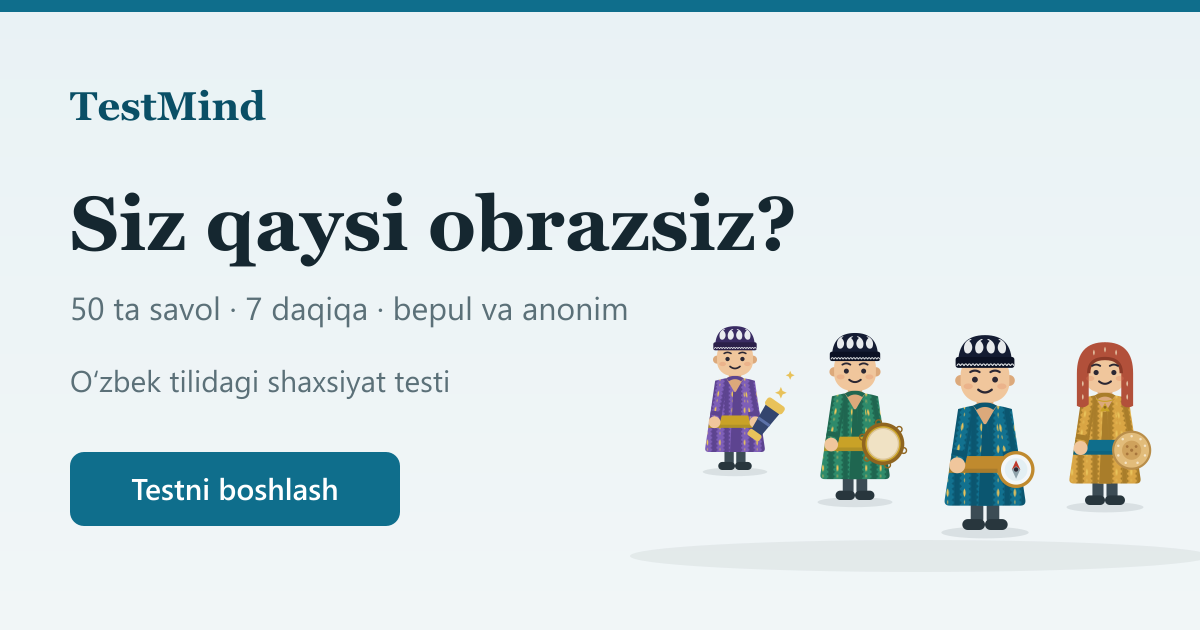
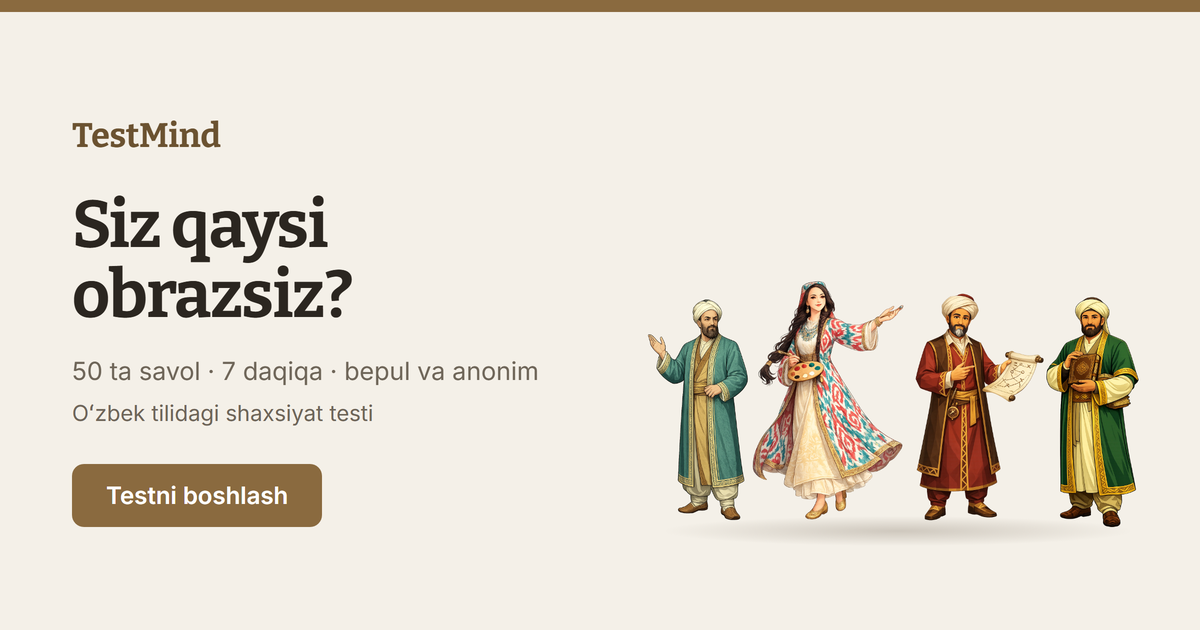
Regenerate the link-preview card, and give it a source
The founder sent the site to someone on Telegram and the preview came
back showing character art that had been replaced ten times over, on the
site's old teal palette, months after the site itself went bronze.

og.png was hand-drawn with no generator. Nothing on the site links to it
and no test looks at it, so when the characters changed and then the
palette changed, it just sat there being wrong -- and a preview card is
the first thing anyone sees of the site and the last thing anyone thinks
to check. It is now built from the same strings, fonts and artwork as
every other page: build_og.py emits a self-contained card, make_og.js
shoots it at 2x and downscales to the 1200x630 every crawler expects.

Shot at 2x because the card is mostly type -- rendering straight at 1200
chews the serifs, and this is seen at thumbnail size where soft type
reads as a broken image. The downscale runs inside make_og.js rather than
being left as a manual second step, which is the same class of mistake
that let the file rot in the first place.

Four figures, chosen for colour spread rather than importance, with the
negative margins their transparent canvases need and a shadow under them
-- the same reason the hero needed one, since none of the ten photographs
carries a shadow of its own.

Note for whoever ships the next redesign: Telegram caches previews hard.
The new card is live but existing chats keep the old one until Telegram
re-fetches; @WebpageBot forces it.

diff --git a/tools/make_og.js b/tools/make_og.js
@@ -1,0 +1,66 @@
+// Renders build/og.html to ../og.png at exactly 1200x630, the size every chat
+// app and crawler expects.
+//
+//   python build_og.py && node make_og.js
+//
+// Shot at 2x and downscaled, because the card is mostly type: rendering straight
+// at 1200 wide leaves the headline's serifs visibly chewed, and a preview card is
+// seen at thumbnail size where soft type reads as a broken image.
+const { spawn } = require('child_process');
+const fs = require('fs'), os = require('os'), path = require('path');
+const CHROME = 'C:/Program Files/Google/Chrome/Application/chrome.exe';
+const PORT = 9441, W = 1200, H = 630;
+const SRC = 'file:///' + path.resolve(__dirname, 'build', 'og.html').replace(/\\/g, '/');
+const DEST = path.resolve(__dirname, '..', 'og.png');
+const sleep = ms => new Promise(r => setTimeout(r, ms));
+let ws, id = 1; const W8 = new Map(), E = new Map();
+const send = (m, p = {}, sid) => new Promise((res, rej) => {
+  const i = id++; W8.set(i, { res, rej });
+  ws.send(JSON.stringify(sid ? { id: i, method: m, params: p, sessionId: sid } : { id: i, method: m, params: p }));
+});
+(async () => {
+  const prof = fs.mkdtempSync(path.join(os.tmpdir(), 'og-'));
+  const ch = spawn(CHROME, ['--headless=new', '--remote-debugging-port=' + PORT, '--no-sandbox',
+    '--disable-gpu', '--hide-scrollbars', '--allow-file-access-from-files',
+    '--user-data-dir=' + prof, 'about:blank'], { stdio: 'ignore' });
+  let info = null;
+  for (let i = 0; i < 60 && !info; i++) {
+    try { const r = await fetch('http://127.0.0.1:' + PORT + '/json/version'); if (r.ok) info = await r.json(); }
+    catch { await sleep(250); }
+  }
+  ws = new WebSocket(info.webSocketDebuggerUrl);
+  await new Promise(r => ws.addEventListener('open', r, { once: true }));
+  ws.addEventListener('message', e => { const m = JSON.parse(e.data);
+    if (m.id && W8.has(m.id)) { const w = W8.get(m.id); W8.delete(m.id); m.error ? w.rej(new Error(m.error.message)) : w.res(m.result); }
+    else if (m.method && E.has(m.method)) { const r = E.get(m.method); E.delete(m.method); r(m.params); } });
+  const { targetId } = await send('Target.createTarget', { url: 'about:blank' });
+  const { sessionId } = await send('Target.attachToTarget', { targetId, flatten: true });
+  const call = (m, p) => send(m, p, sessionId);
+  await call('Page.enable'); await call('Runtime.enable');
+  await call('Emulation.setDeviceMetricsOverride', { width: W, height: H, deviceScaleFactor: 2, mobile: false });
+  const loaded = new Promise(r => E.set('Page.loadEventFired', r));
+  await call('Page.navigate', { url: SRC });
+  await Promise.race([loaded, sleep(15000)]);
+  // The fonts are inlined, but font-display:block still needs a tick to swap in;
+  // without this the card renders in Segoe UI often enough to matter.
+  await call('Runtime.evaluate', { expression: 'document.fonts.ready', awaitPromise: true });
+  await sleep(400);
+  // deviceScaleFactor is already 2, so scale:1 here gives 2400x1260 -- asking for
+  // scale:2 as well would quietly render at 4x and waste the time.
+  const shot = await call('Page.captureScreenshot', {
+    format: 'png', clip: { x: 0, y: 0, width: W, height: H, scale: 1 } });
+  const tmp = DEST + '.2x.png';
+  fs.writeFileSync(tmp, Buffer.from(shot.data, 'base64'));
+  ch.kill(); try { fs.rmSync(prof, { recursive: true, force: true }); } catch {}
+
+  // Downscale here rather than leaving a stray 2x file for someone to finish by
+  // hand -- that is exactly how og.png went stale the first time.
+  const py = spawn('python', ['-c', [
+    'from PIL import Image; import os, sys',
+    'src, dst, w, h = sys.argv[1], sys.argv[2], int(sys.argv[3]), int(sys.argv[4])',
+    'Image.open(src).resize((w, h), Image.LANCZOS).convert("RGB").save(dst, "PNG", optimize=True)',
+    'os.remove(src)',
+    'print("og.png  %dx%d  %.0f KB" % (Image.open(dst).size + (os.path.getsize(dst) / 1024.0,)))'
+  ].join('\n'), tmp, DEST, String(W), String(H)], { stdio: 'inherit' });
+  py.on('exit', c => process.exit(c || 0));
+})();

diff --git a/tools/build_og.py b/tools/build_og.py
@@ -1,0 +1,105 @@
+# -*- coding: utf-8 -*-
+u"""Builds the link-preview card (og.png) that Telegram, WhatsApp and Twitter show.
+
+    python build_og.py          # -> build/og.html
+    node   make_og.js           # -> ../og.png
+
+og.png used to be a hand-drawn file with no source. It went stale twice over
+without anyone noticing, because nothing renders it and nothing checks it: by the
+time the founder spotted it in a Telegram preview it was showing character art
+that had been replaced ten times over AND the site's old teal palette, months
+after the site itself had gone bronze. A preview card is the first thing anyone
+sees of the site and the last thing anyone thinks to look at, so it is generated
+from the same strings, fonts and artwork as everything else now.
+
+Self-contained on purpose -- fonts and artwork inlined as base64 -- so it renders
+identically from file:// with no network.
+"""
+import base64, io, os, sys
+
+HERE = os.path.dirname(os.path.abspath(__file__))
+ROOT = os.path.dirname(HERE) + '/'
+OUT = os.path.join(HERE, 'build')
+
+sys.path.insert(0, HERE)
+from i18n import S
+
+# Four of the ten, chosen for colour spread rather than importance: at the size a
+# chat app shows this, the row reads as a band of colour before it reads as people.
+FIGURES = ['xotirjam-yetakchi',     # teal
+           'gayratli-ijodkor',      # red and white ikat
+           'barqaror-strateg',      # deep red
+           'ishonchli-tayanch']     # green
+
+
+def b64(path, mime):
+    with open(ROOT + path, 'rb') as f:
+        return 'data:%s;base64,%s' % (mime, base64.b64encode(f.read()).decode('ascii'))
+
+
+def build(lang='uz'):
+    t = S[lang]
+    figs = u''.join(
+        u'<img src="%s" alt="">' % b64('assets/characters/%s.webp' % s, 'image/webp')
+        for s in FIGURES)
+    html = u"""<!doctype html><html lang="uz"><head><meta charset="utf-8"><style>
+@font-face{font-family:'Bitter';src:url(%(bitter)s) format('woff2');font-weight:700;font-display:block}
+@font-face{font-family:'Inter';src:url(%(inter)s) format('woff2');font-weight:400 600;font-display:block}
+*{margin:0;padding:0;box-sizing:border-box}
+body{width:1200px;height:630px;background:#F4F0E8;font-family:'Inter',sans-serif;
+     color:#2B2620;overflow:hidden;position:relative}
+.bar{height:12px;background:#8A6A3F}
+.wrap{display:flex;height:618px;align-items:center}
+.txt{padding:0 0 0 72px;width:596px;flex:none}
+.mark{font-family:'Bitter',serif;font-weight:700;font-size:34px;color:#6B5230;
+      letter-spacing:-.01em;margin-bottom:34px}
+h1{font-family:'Bitter',serif;font-weight:700;font-size:66px;line-height:1.06;
+   letter-spacing:-.02em;margin-bottom:26px}
+.sub{font-size:25px;color:#6E6558;margin-bottom:14px}
+.sub2{font-size:22px;color:#6E6558;margin-bottom:38px}
+.btn{display:inline-block;background:#8A6A3F;color:#fff;font-size:24px;font-weight:600;
+     padding:17px 34px;border-radius:12px}
+/* The figures are photographs with no shadow of their own, exactly as in the
+   hero -- without the ellipse under them they float against a flat panel. */
+/* Negative gap on purpose: each PNG is a 1024x1536 canvas with the figure
+   filling only the middle 60-80%% of it, so laying them edge to edge leaves
+   gaps of transparency that read as bad spacing rather than as a group. */
+.cast{flex:1;display:flex;align-items:flex-end;justify-content:center;gap:-42px;
+      height:100%%;padding-bottom:92px;position:relative}
+.cast img{height:250px;width:auto;display:block;position:relative;z-index:1;
+          margin-left:-21px;margin-right:-21px}
+.cast img:nth-child(3){height:268px}
+.cast img:nth-child(4){height:256px}
+.ground{position:absolute;left:50%%;transform:translateX(-50%%);bottom:84px;
+        width:470px;height:30px;border-radius:50%%;z-index:0;
+        background:radial-gradient(closest-side,rgba(74,58,40,.22),rgba(74,58,40,0))}
+</style></head><body>
+<div class="bar"></div>
+<div class="wrap">
+  <div class="txt">
+    <div class="mark">TestMind</div>
+    <h1>%(h1)s</h1>
+    <div class="sub">%(sub)s</div>
+    <div class="sub2">%(sub2)s</div>
+    <span class="btn">%(cta)s</span>
+  </div>
+  <div class="cast"><div class="ground"></div>%(figs)s</div>
+</div>
+</body></html>""" % {
+        'bitter': b64('assets/fonts/bitter.woff2', 'font/woff2'),
+        'inter': b64('assets/fonts/inter.woff2', 'font/woff2'),
+        'h1': t['home.h1'],
+        'sub': u'50 ta savol · 7 daqiqa · bepul va anonim',
+        'sub2': u'Oʻzbek tilidagi shaxsiyat testi',
+        'cta': t['nav.cta'],
+        'figs': figs,
+    }
+    if not os.path.isdir(OUT):
+        os.makedirs(OUT)
+    p = os.path.join(OUT, 'og.html')
+    io.open(p, 'w', encoding='utf-8', newline='').write(html)
+    print('wrote %s  (%d KB)' % (p, os.path.getsize(p) / 1024))
+
+
+if __name__ == '__main__':
+    build()

diff --git a/tools/README.md b/tools/README.md
@@ -8,7 +8,14 @@ let the app be verified before shipping.
 
 The **hand-written source** files are: `test.html` (the whole test app — inline
 styles + logic), `assets/site.css`, `assets/site.js`, `assets/characters.js`
-(archetype data + SVG artwork), `assets/fonts/`, and `og.png`.
+(archetype data + SVG artwork), and `assets/fonts/`.
+
+`og.png` — the card Telegram and WhatsApp show — **is generated**, by
+`build_og.py` + `make_og.js`. It used to be hand-drawn with no source, and went
+stale twice over without anyone noticing: it was still showing replaced character
+art and the site's old teal palette months after the site went bronze, and was
+only caught in a chat preview. Nothing on the site links to it, so nothing breaks
+when it rots. **Re-run it whenever the characters or the palette change.**
 
 ## Where things live
 
